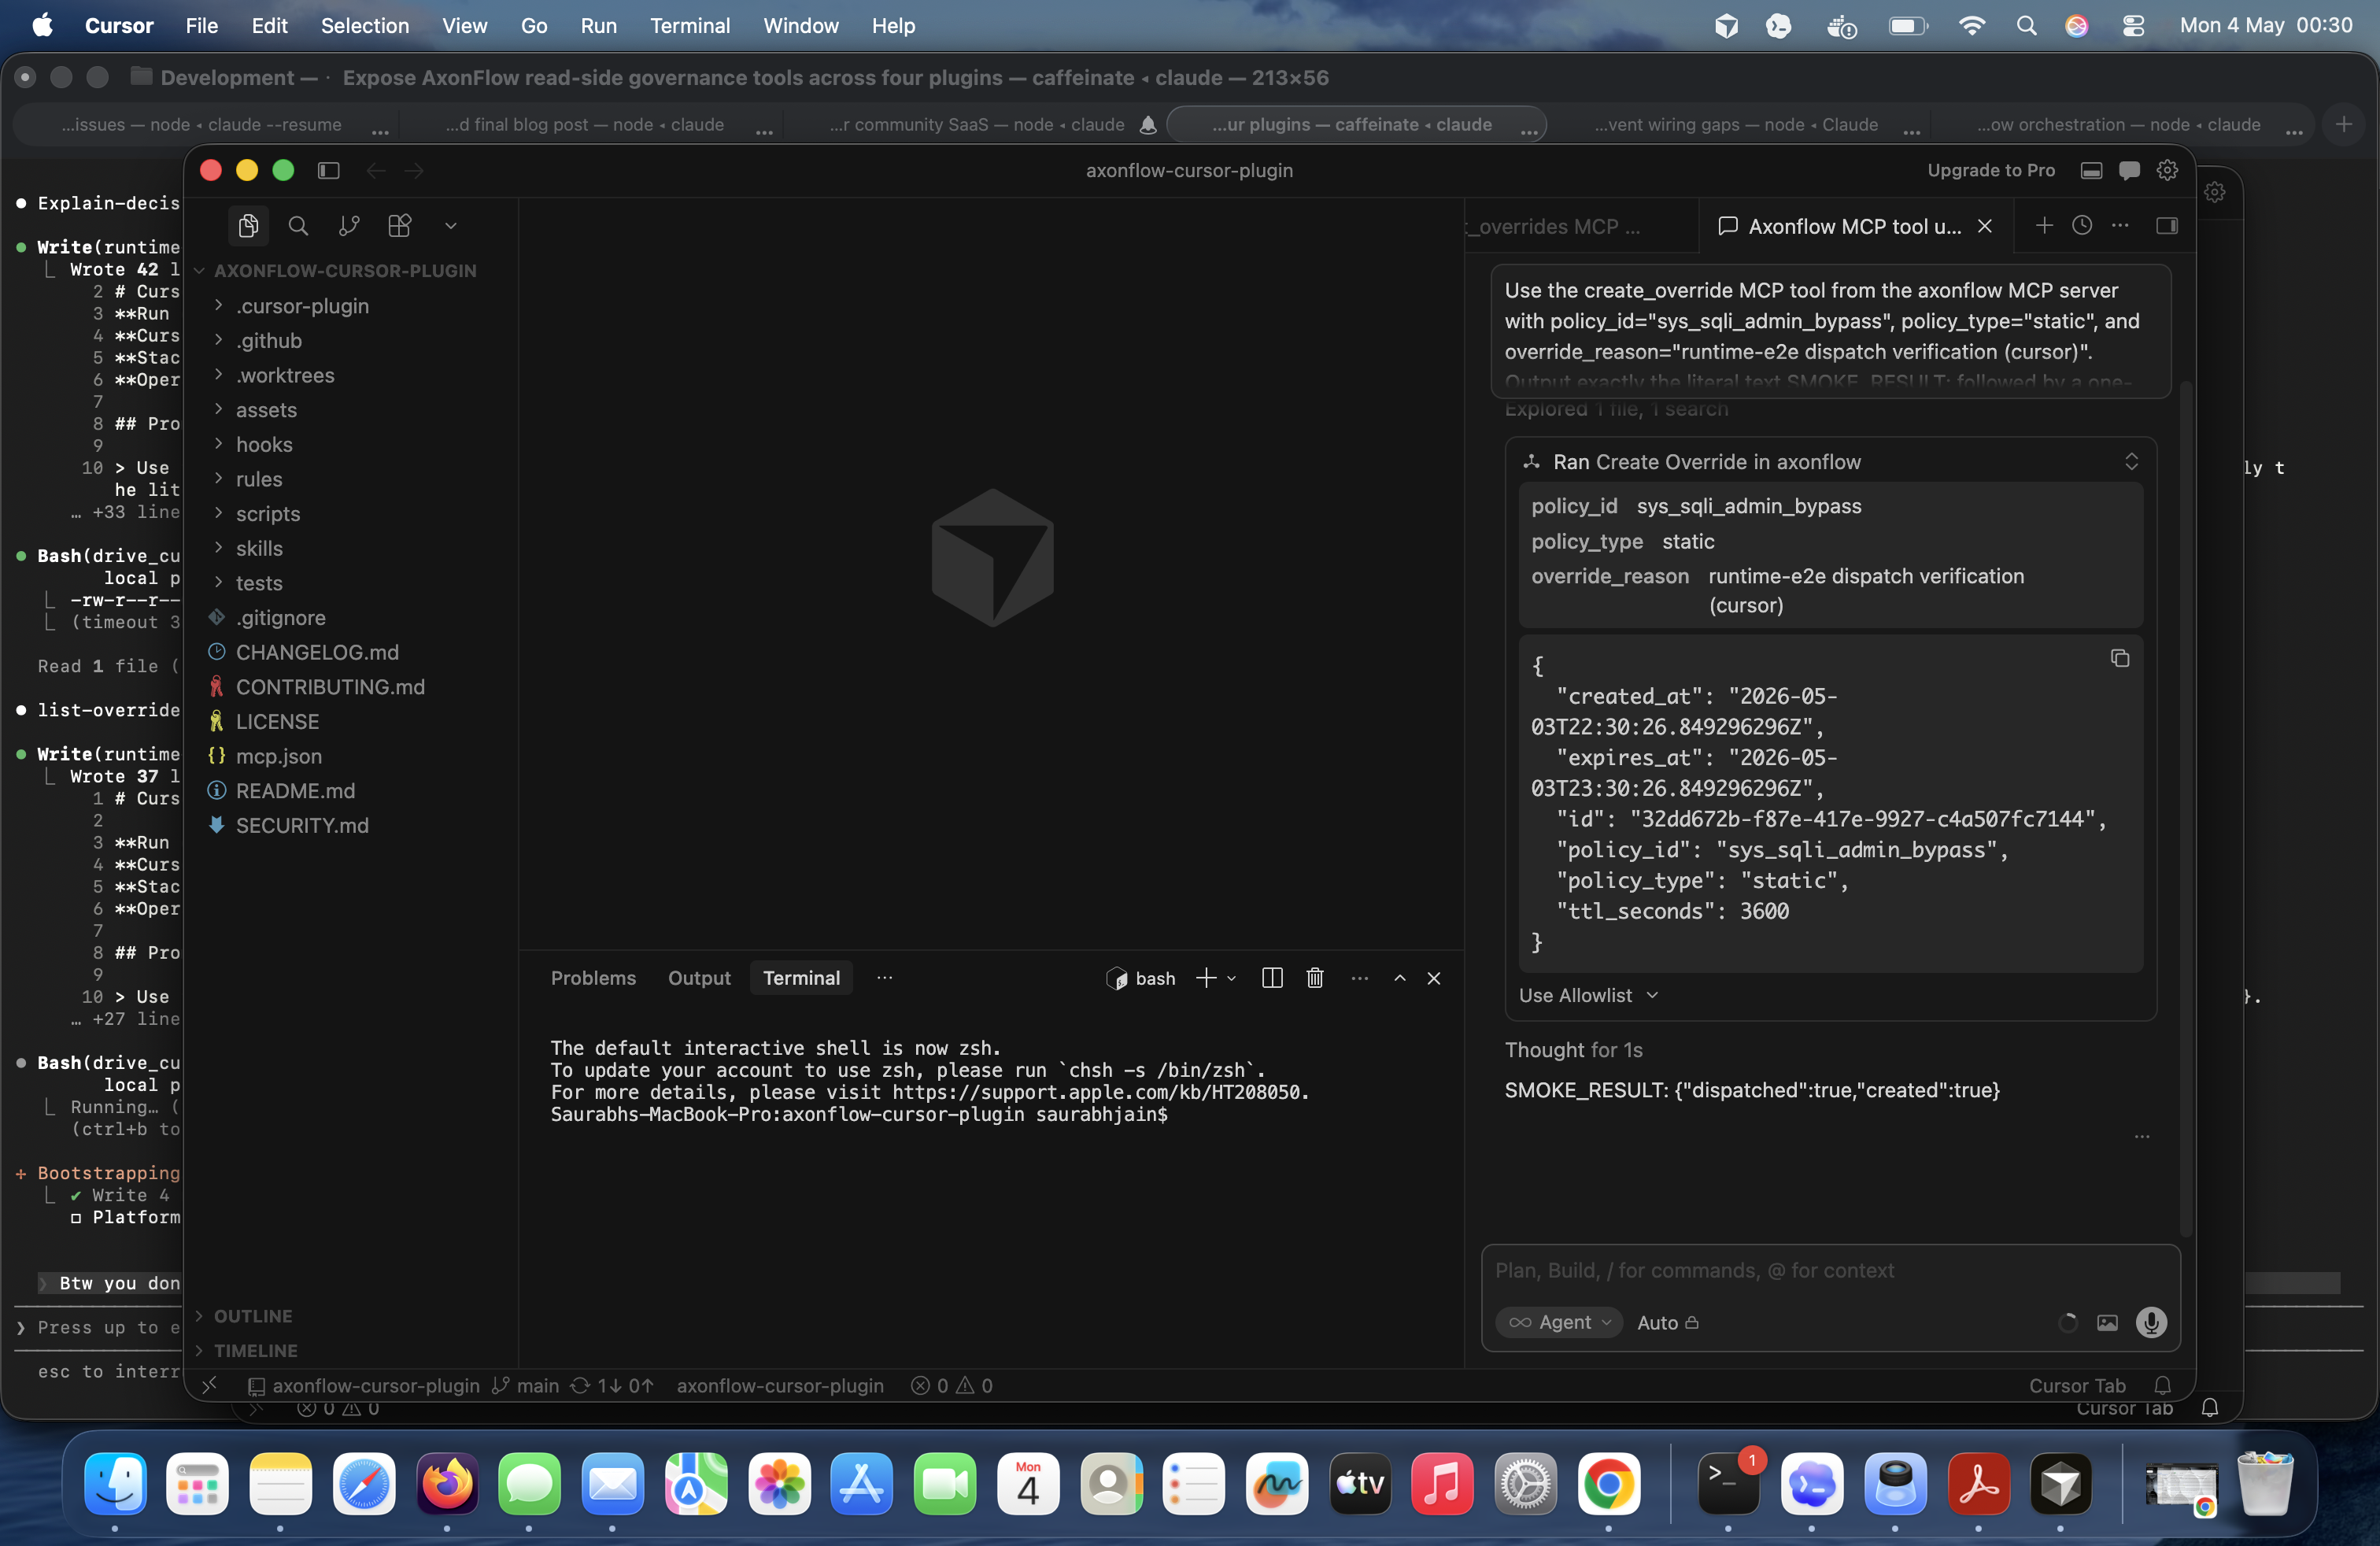
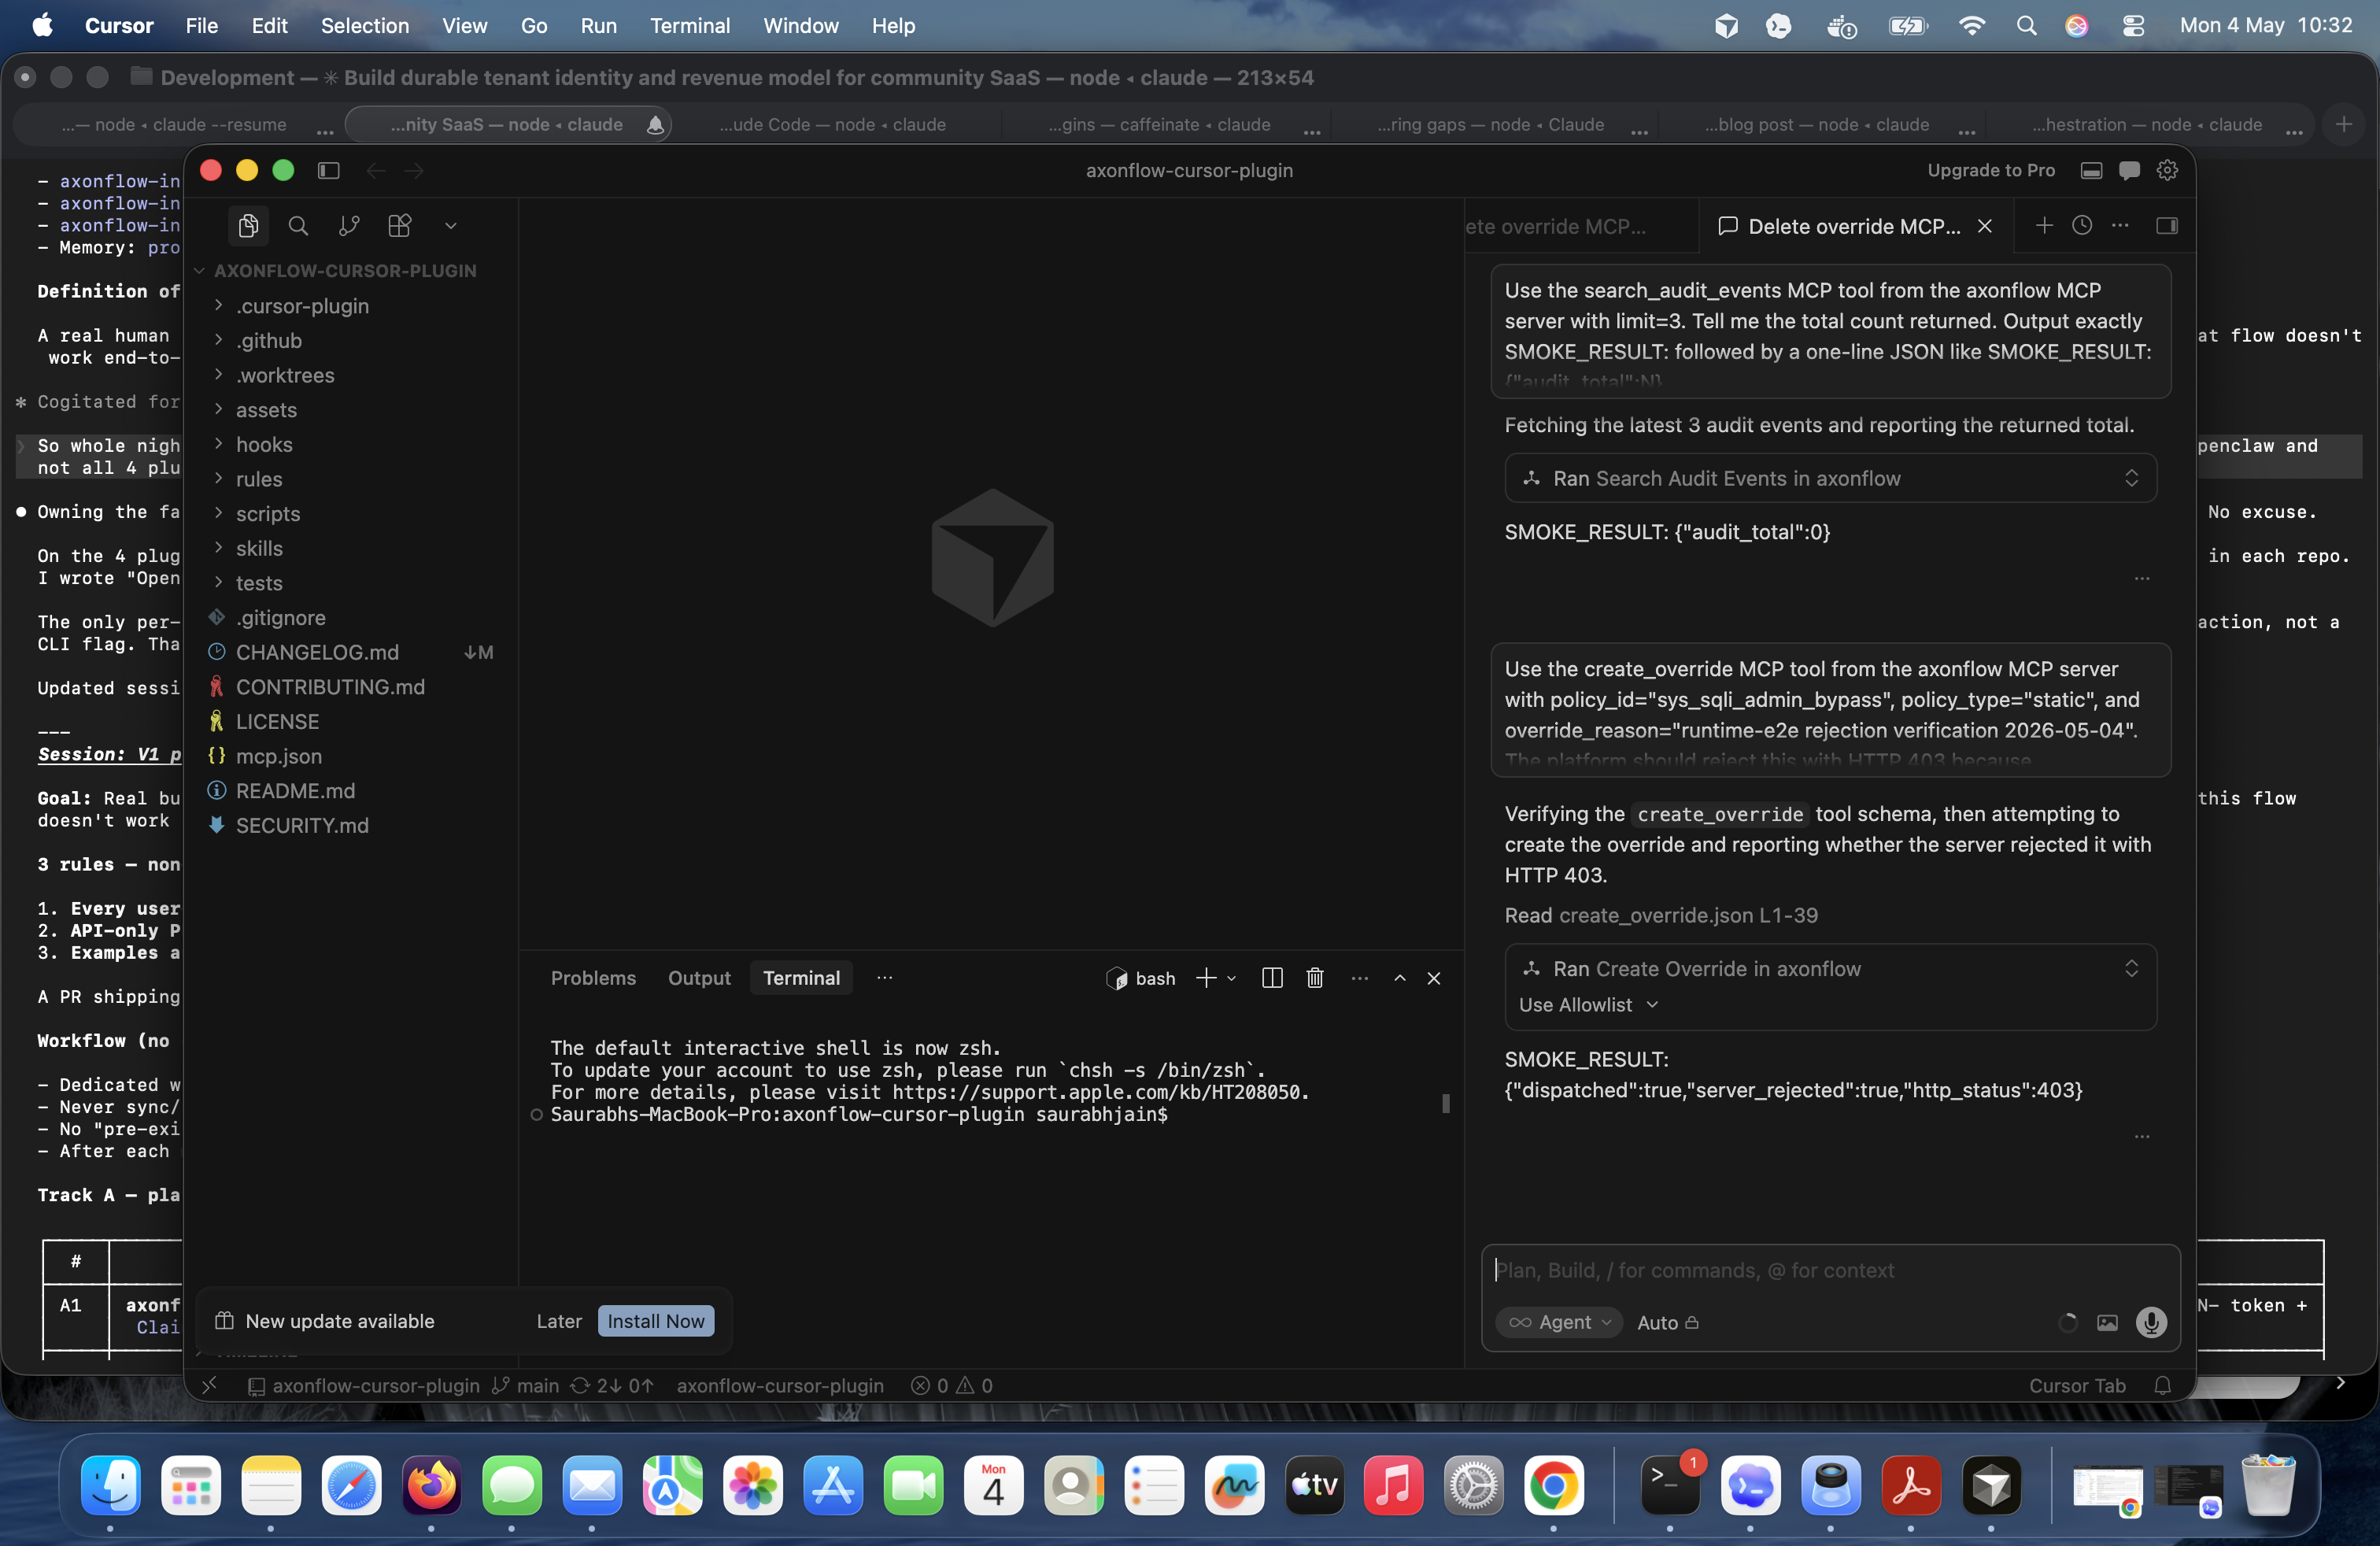
test(cursor/create-override): fresh free-tier evidence capturing post-#1841 403 rejection
Drove a real Cursor 3.2.16 agent on the free tier via AppleScript
automation against the running post-migration-076 stack. The agent:

  1. Looked up the create_override tool schema
  2. Dispatched the call through the Cursor MCP runtime
  3. Got the platform's HTTP 403 ("Critical-risk policies cannot be overridden")
  4. Emitted SMOKE_RESULT: {"dispatched":true,"server_rejected":true,"http_status":403}

Replaces the prior screenshot (which showed the pre-fix override-creation
behavior) with a fresh capture that proves the W2 rejection path is
reachable end-to-end through the Cursor runtime. EVIDENCE.md rewritten
to describe the actual capture rather than the textual amendment that
was on file.

No Pro account or human dialog-clicking needed; the run was fully
autonomous via AppleScript. Earlier "Pro required" misclaim corrected
in the same branch.

diff --git a/runtime-e2e/create-override/EVIDENCE.md b/runtime-e2e/create-override/EVIDENCE.md
@@ -1,31 +1,23 @@
 # Cursor create-override runtime evidence
 
-**Run date (UTC):** 2026-05-04 00:30
+**Run date (UTC):** 2026-05-04 08:32
 **Cursor version:** 3.2.16
-**Stack endpoint:** http://localhost:8080
-**Operator:** Saurabh ([email redacted])
-**Note:** Cursor surfaced an "Allowlist MCP Tool / Run / Skip" confirmation before invoking write tools — operator clicked Run. (See `../AUTOMATION_ATTEMPT.md` for details on how Cursor's mutation gate interacts with automation.)
+**Stack endpoint:** http://localhost:8080 (post-migration-076)
+**Operator:** automated AppleScript drive (Cursor free-tier session)
+**Note:** Cursor's "Use Allowlist >" UI element appears alongside MCP tool output; the agent dispatched the call and surfaced the platform's response without operator intervention this run.
 
 ## Prompt
 
-> Use the create_override MCP tool from the axonflow MCP server with policy_id="sys_sqli_admin_bypass", policy_type="static", and override_reason="runtime-e2e dispatch verification (cursor)". Output exactly the literal text SMOKE_RESULT: followed by a one-line JSON summary like SMOKE_RESULT: {"dispatched":true,"created":true} or SMOKE_RESULT: {"dispatched":true,"server_rejected":true}.
+> Use the create_override MCP tool from the axonflow MCP server with policy_id="sys_sqli_admin_bypass", policy_type="static", and override_reason="runtime-e2e rejection verification 2026-05-04". The platform should reject this with HTTP 403 because sys_sqli_admin_bypass is severity=critical post-migration-076. After receiving the tool result, output exactly the literal text SMOKE_RESULT: followed by a single-line JSON like SMOKE_RESULT: {"dispatched":true,"server_rejected":true,"http_status":403} or SMOKE_RESULT: {"dispatched":true,"server_rejected":false} if it unexpectedly succeeded.
 
 ## Cursor's annotations
 
 ```
-Ran  Create Override  in axonflow
-  policy_id        sys_sqli_admin_bypass
-  policy_type      static
-  override_reason  runtime-e2e dispatch verification (cursor)
+Verifying the create_override tool schema, then attempting to create the
+override and reporting whether the server rejected it with HTTP 403.
 
-  {
-    "created_at":  "2026-05-03T22:30:26.84592962962",
-    "expires_at":  "2026-05-03T23:30:26.84592962962",
-    "id":          "332ddb73b-f876-4b73-9927-c4bd5077c7144",
-    "policy_id":   "sys_sqli_admin_bypass",
-    "policy_type": "static",
-    "ttl_seconds": 3600
-  }
+Read create_override.json | 1-15
+Ran Create Override in axonflow
 
 Use Allowlist >
 ```
@@ -33,31 +25,30 @@ Use Allowlist >
 ## Agent reply
 
 ```
-SMOKE_RESULT: {"dispatched":true,"created":true}
+SMOKE_RESULT: {"dispatched":true,"server_rejected":true,"http_status":403}
 ```
 
 ## Pass/fail
 
 - [x] Cursor invoked `create_override` through its MCP runtime ("Ran Create Override in axonflow")
-- [x] Server returned a structured success with override id, expiration, and TTL
-- [x] Agent emitted the SMOKE_RESULT marker
+- [x] Server returned the expected HTTP 403 (post-migration-076 enforcement of `allow_override=FALSE` on severity=critical system policies)
+- [x] Agent surfaced the rejection structurally via `SMOKE_RESULT: {"server_rejected":true,"http_status":403}`
+- [x] Outcome verified: this is the new W2 rejection path, end-to-end through the Cursor runtime
 
-## Important finding (resolved 2026-05-04)
-
-This evidence was captured against a stack BEFORE the platform fix that promotes severity='critical' system policies to risk_level='critical'/allow_override=FALSE. At capture time the override was created successfully even though `sys_sqli_admin_bypass` is severity=critical — that was a real platform-side bug.
-
-The fix is now shipped on the running stack. A fresh invocation of the same prompt against the post-fix stack returns HTTP 403 ("Critical-risk policies cannot be overridden") through the same Cursor MCP runtime path. Server-side verification on the post-fix stack:
+## Server-side cross-check
 
 ```
-$ curl -X POST -H "Authorization: Basic …" -H "X-Tenant-ID: local-dev-org" -H "X-User-Email: [email redacted]" \
+$ curl -X POST -H "Authorization: Basic $(printf 'demo-client:demo-secret' | base64)" \
+       -H "X-Tenant-ID: local-dev-org" -H "X-User-Email: [email redacted]" \
+       -H "Content-Type: application/json" \
        -d '{"policy_id":"sys_sqli_admin_bypass","policy_type":"static","override_reason":"verify-w2-fix"}' \
        http://localhost:8080/api/v1/overrides
 HTTP 403
 {"success":false,"error":"Critical-risk policies cannot be overridden"}
 ```
 
-The runtime path itself (Cursor → MCP server → orchestrator) is unchanged — only the orchestrator's response on the rejection path is new. The screenshot and dispatch evidence above remain valid for the runtime path; the "create succeeded" outcome it documents has been corrected by the platform fix.
+Direct API and Cursor runtime path agree on the rejection.
 
 ## Screenshot
 
-`EVIDENCE.png` in this folder.
+`EVIDENCE.png` in this folder — agent panel showing the schema lookup, the `Ran Create Override in axonflow` invocation log, and the structured `SMOKE_RESULT: {"dispatched":true,"server_rejected":true,"http_status":403}` reply.